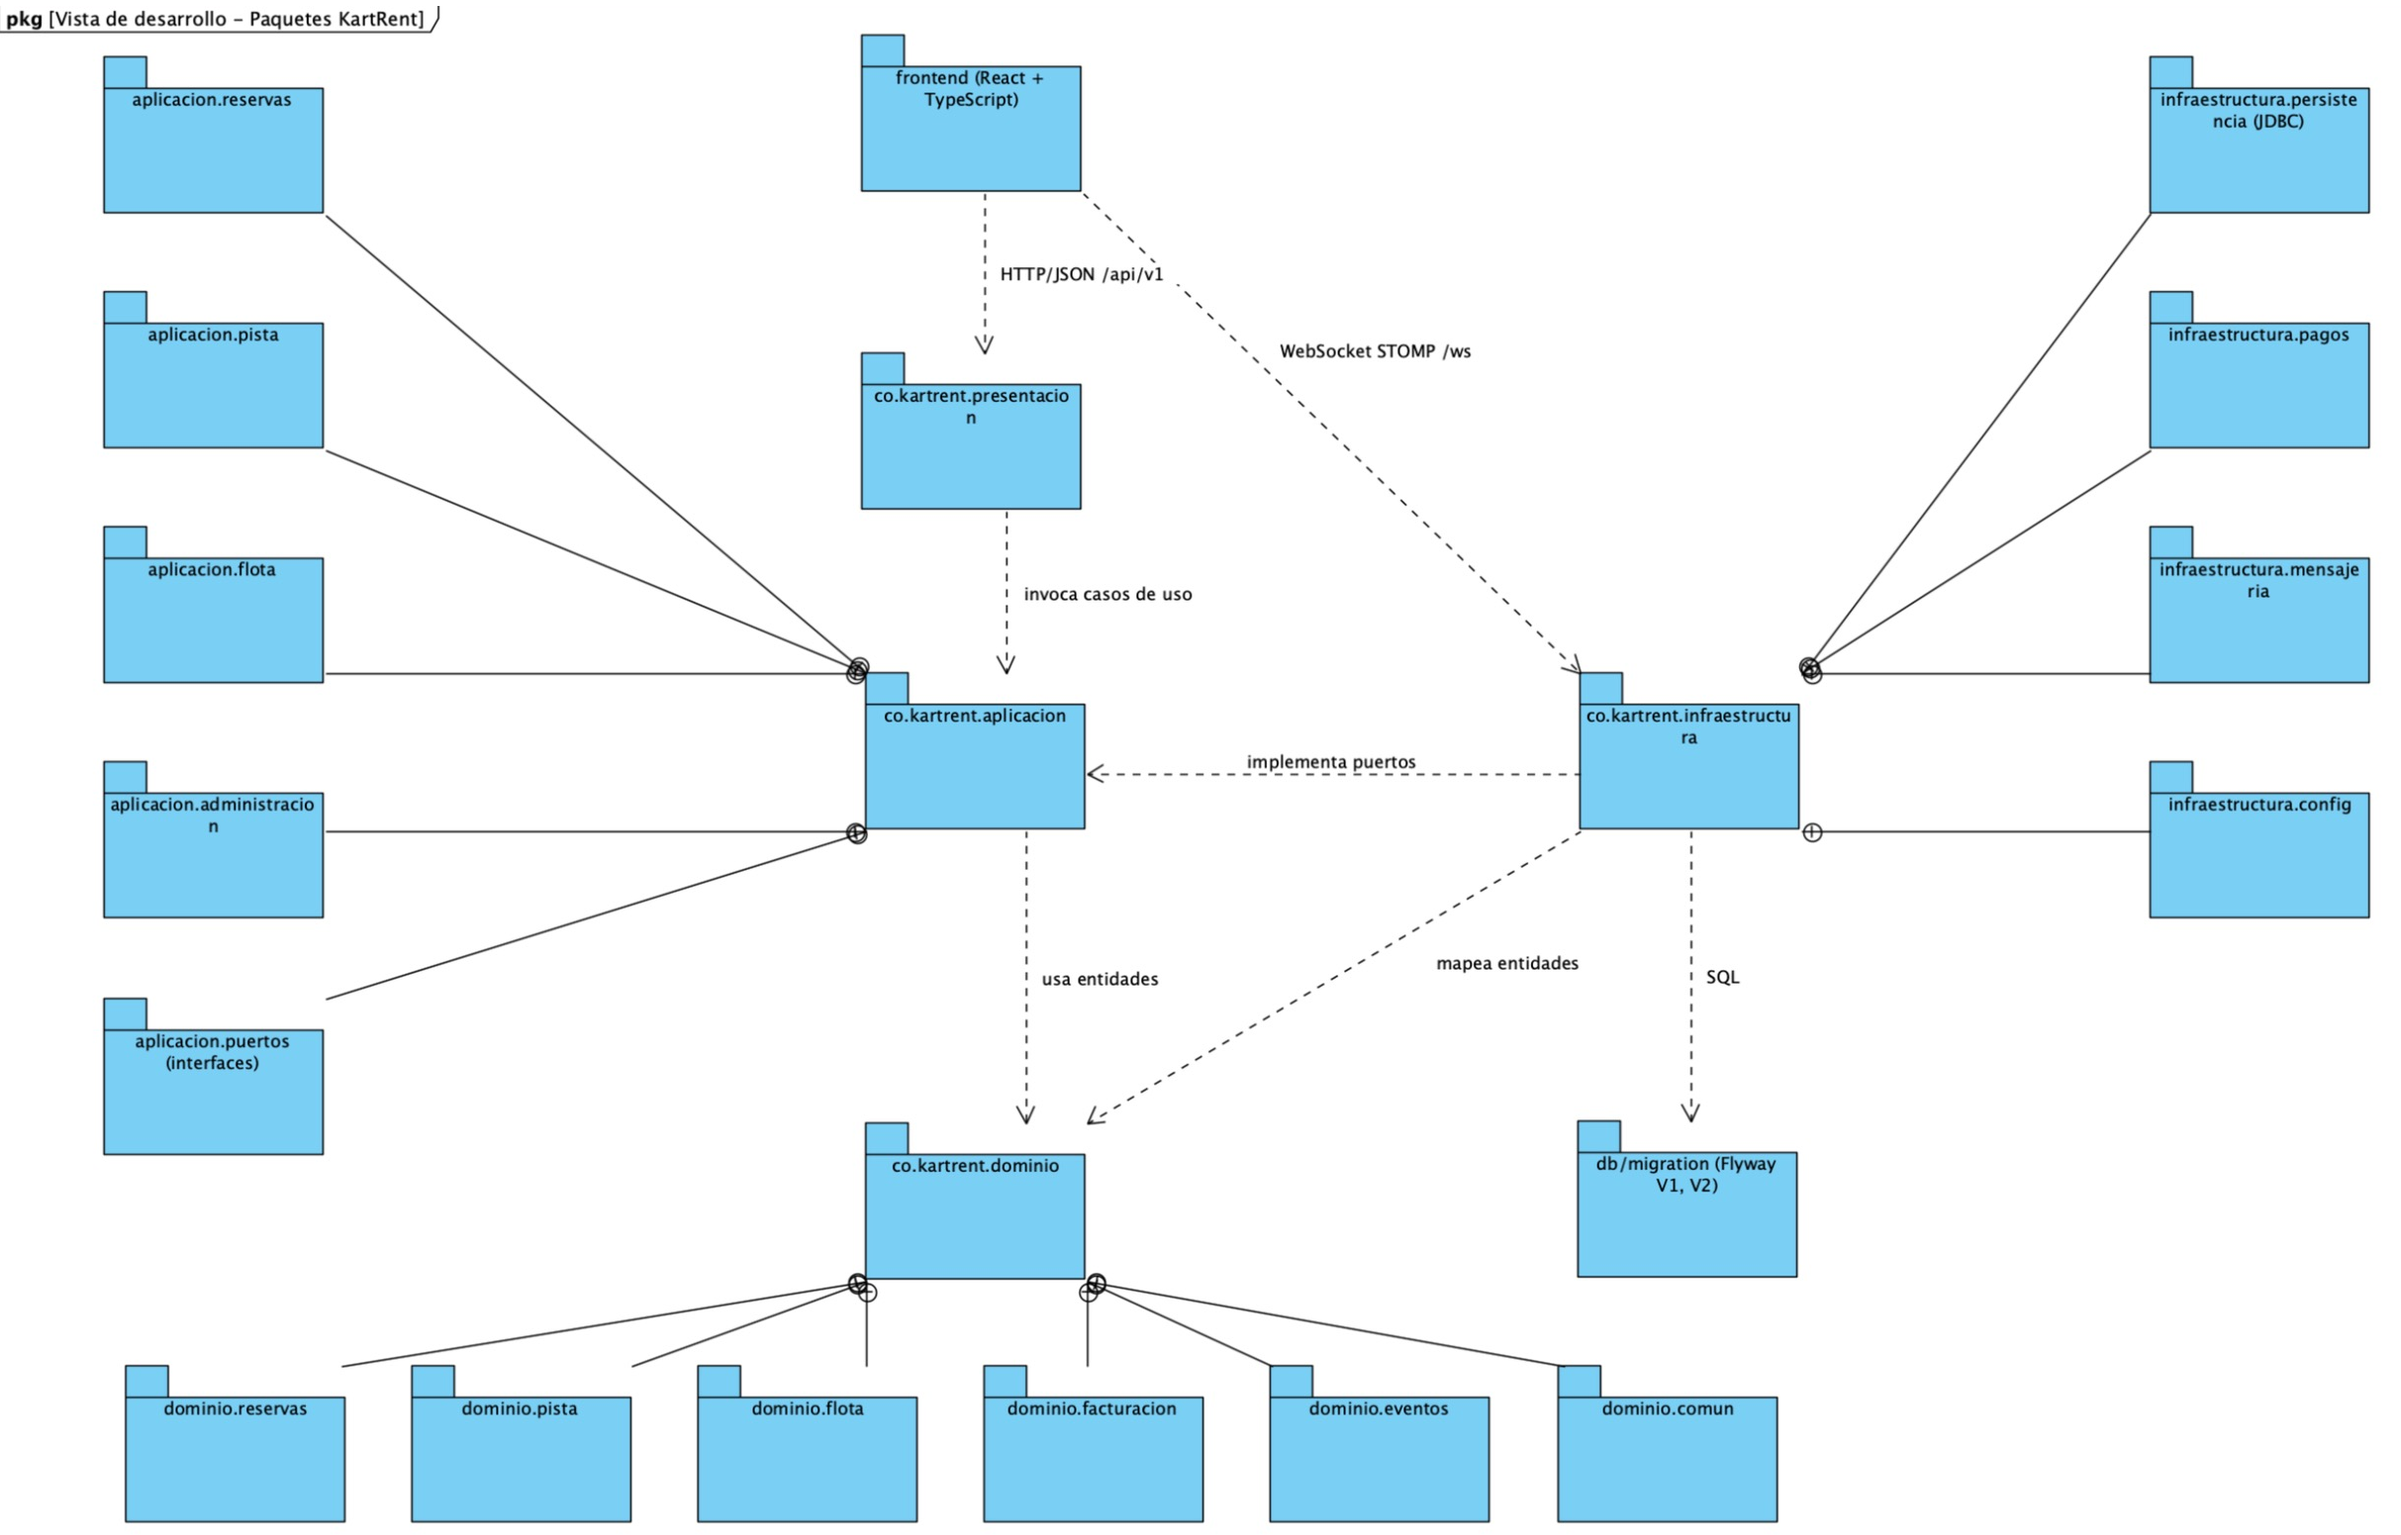
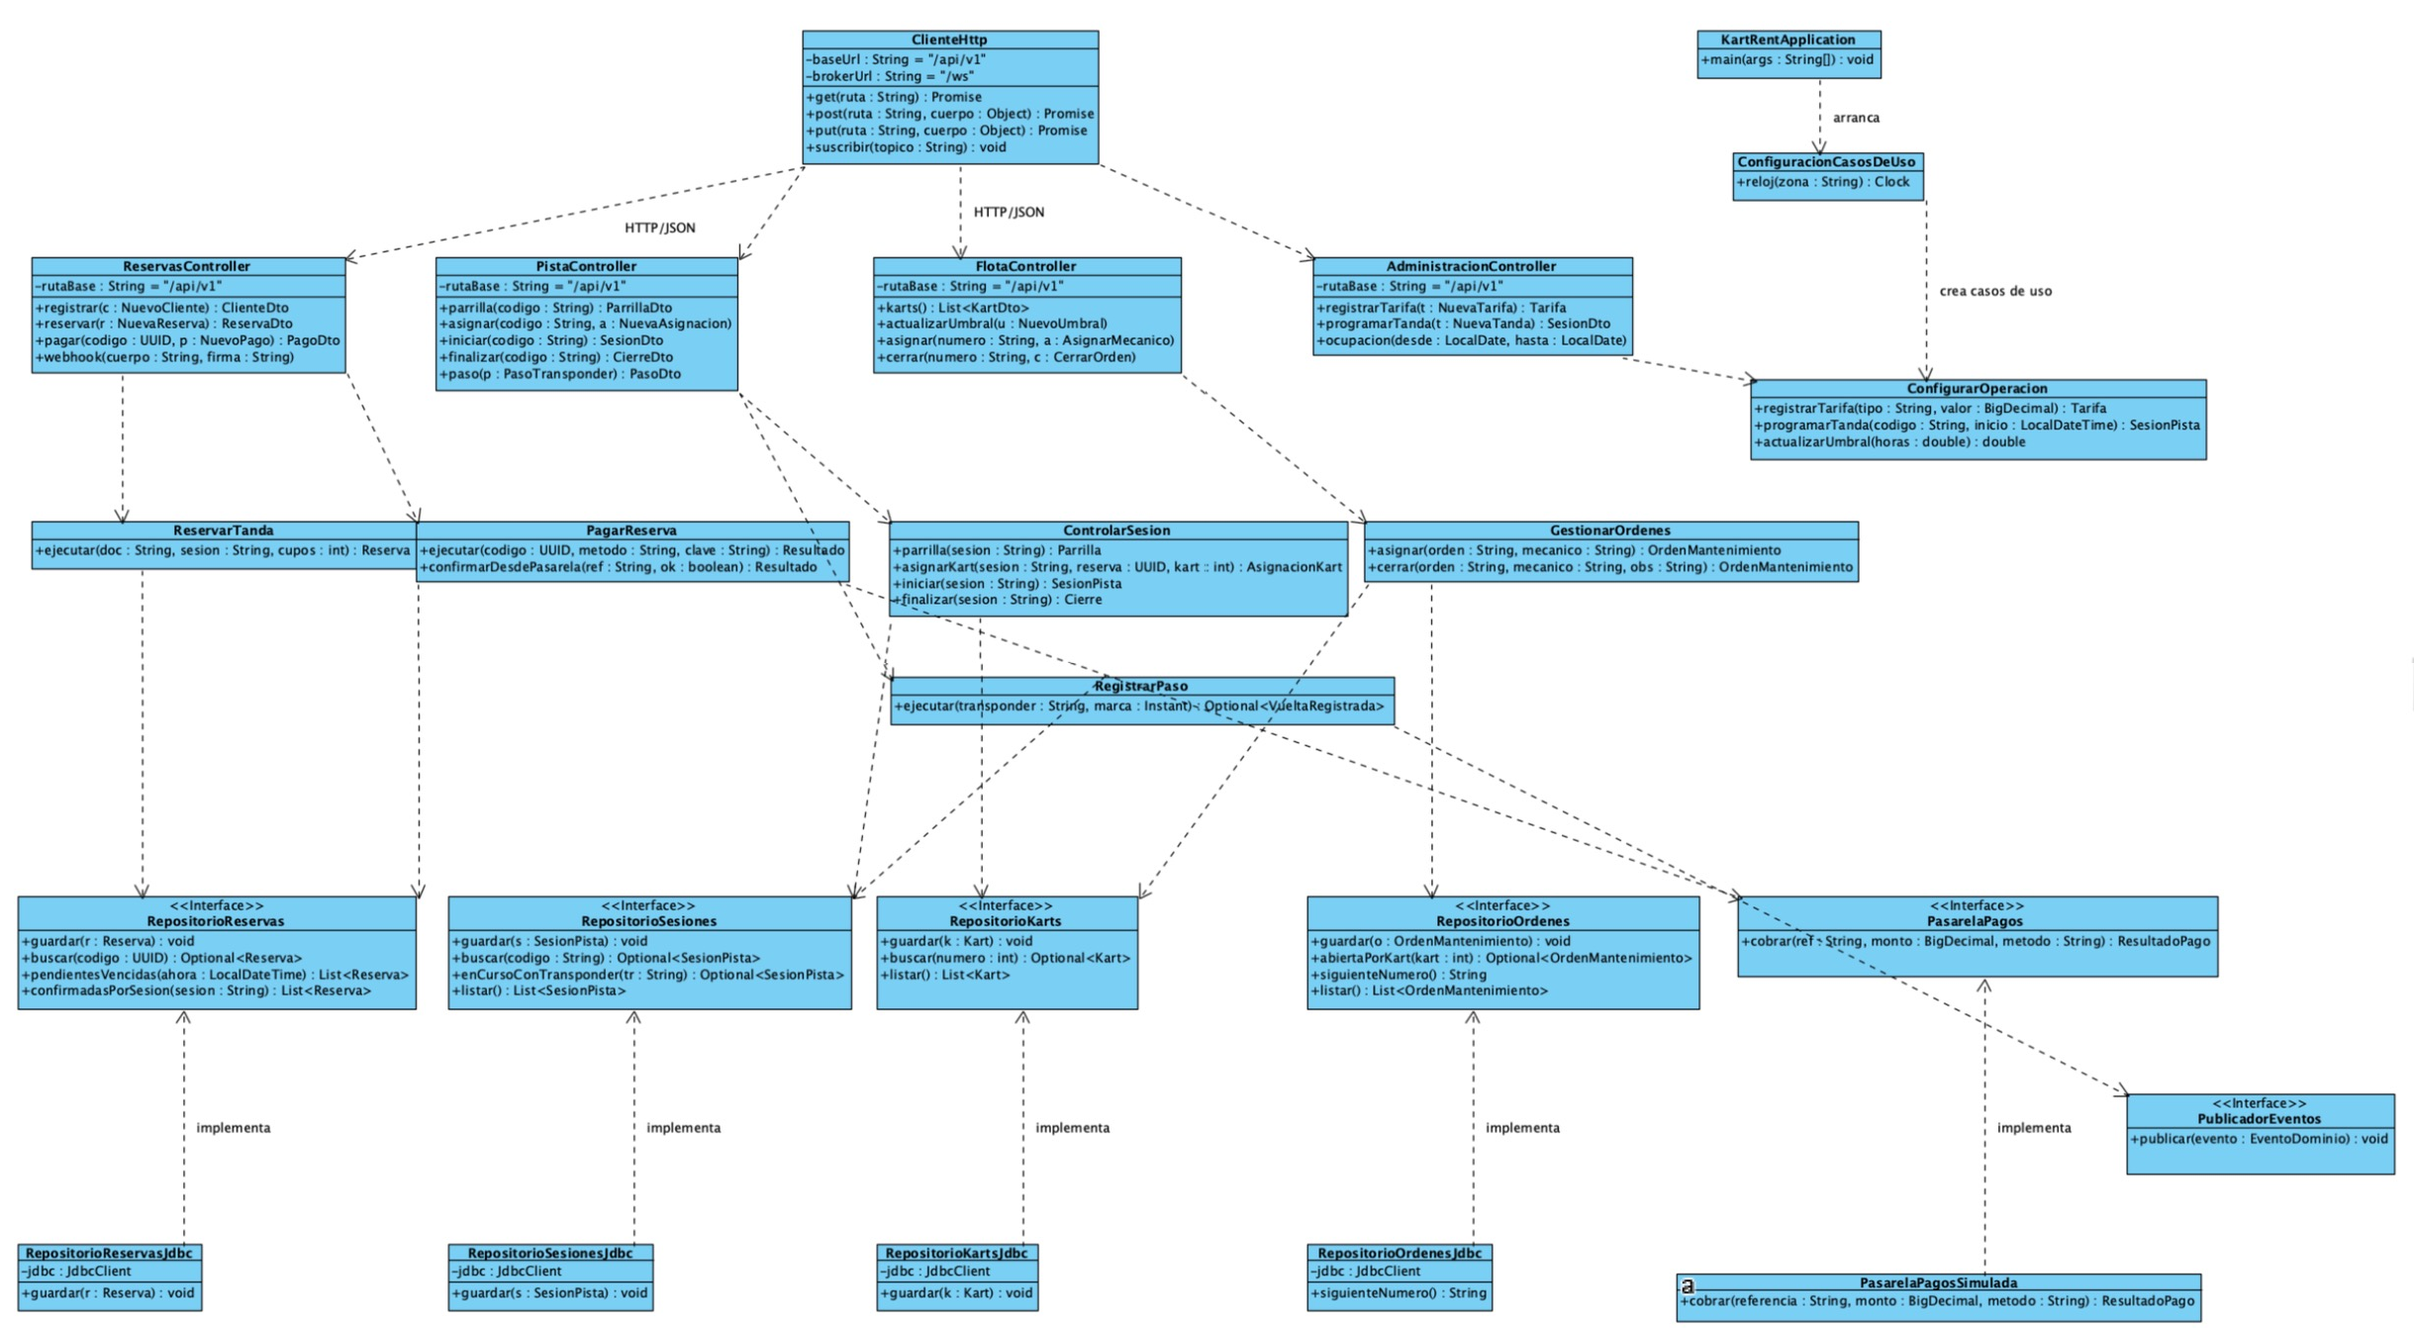
Vista de desarrollo detallada: clases de implementación (controladores, casos de uso, puertos y adaptadores)

diff --git a/README.md b/README.md
@@ -67,7 +67,7 @@ Las fuentes PlantUML están en [`diagramas/plantuml`](diagramas/plantuml). La CI
 | Contexto | `01_contexto.puml` | Actores y sistemas externos, con cada flujo etiquetado con su HU |
 | Funcional | `02_funcional.puml` | Cinco componentes, interfaces provistas (`<<service>>`/`<<management>>`) y requeridas, y adaptadores externos |
 | Lógica | `03_logica.puml` | Modelo de dominio con estereotipos GRASP, igual que el código en `co.kartrent.dominio` |
-| Desarrollo | `04_desarrollo.puml` | Paquetes de arquitectura limpia; las dependencias apuntan al núcleo |
+| Desarrollo | `04_desarrollo.puml` | Clases de implementación: controladores → casos de uso → puertos ← adaptadores |
 | Despliegue | `05_despliegue.puml` | Contenedores nginx, Spring Boot y PostgreSQL, decodificador de meta y pasarela |
 
 ### Diagramas en Visual Paradigm
@@ -89,8 +89,8 @@ Clases del paquete `co.kartrent.dominio` con atributos, operaciones, herencias y
 
 ![Vista lógica](diagramas/img/03_logica.png)
 
-#### 4. Vista de desarrollo (paquetes)
-Capas de la arquitectura limpia, sus subpaquetes y las dependencias, que siempre apuntan hacia el dominio.
+#### 4. Vista de desarrollo (clases de implementación)
+Clases reales del código y cómo se conectan: `ClienteHttp` (frontend) llama por HTTP/JSON a los controladores REST (cada uno con su `rutaBase`); los controladores invocan los casos de uso (`ReservarTanda`, `PagarReserva`, `ControlarSesion`, `RegistrarPaso`, `GestionarOrdenes`, `ConfigurarOperacion`); los casos de uso dependen solo de puertos `<<Interface>>` (`RepositorioReservas`, `RepositorioSesiones`, `RepositorioKarts`, `RepositorioOrdenes`, `PasarelaPagos`, `PublicadorEventos`), y los adaptadores de infraestructura (`Repositorio*Jdbc`, `PasarelaPagosSimulada`) **implementan** esos puertos. `KartRentApplication` arranca `ConfiguracionCasosDeUso`, que crea los casos de uso (inyección de dependencias). Así las dependencias siempre apuntan hacia el núcleo.
 
 ![Vista de desarrollo](diagramas/img/04_desarrollo.png)
 
